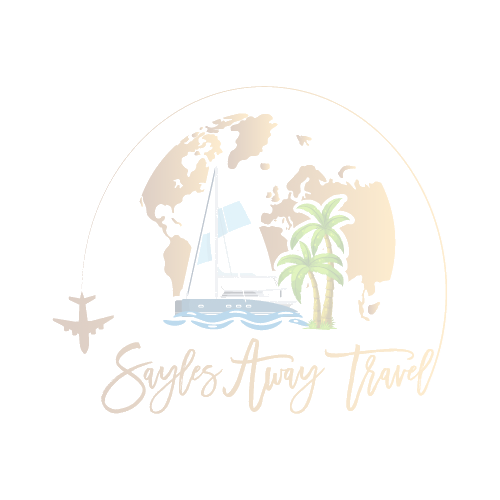
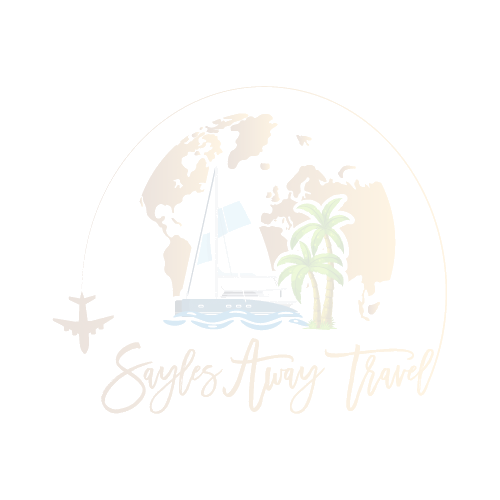
fixed submit animation + formatting changes to pdf

Changed region(s): [[0.33, 0.39, 0.69, 0.66], [0.12, 0.63, 0.18, 0.66]]

diff --git a/public/js/travel-inquiry-form.js b/public/js/travel-inquiry-form.js
@@ -8,6 +8,9 @@ $(document).ready(function(){
         return this.optional(element) || /^\bcat\b$/.test(value)
     }, "type the correct answer -_-");
 
+    $.validator.addMethod("notNone", function(value, element) {
+        return value !== "";
+    }, "Please select a valid reference.");
 
     // validate travelinquiryform
     $(function() {
@@ -73,7 +76,8 @@ $(document).ready(function(){
                 },
                 reference: {
                     required: true,
-                    minlength: 0
+                    minlength: 0,
+                    notNone: true
                 },
                 other_reference: {
                     minlength: 0
@@ -137,7 +141,7 @@ $(document).ready(function(){
                 },
                 reference: {
                     required: "",
-                    minlength: ""
+                    notNone: ""
                 },
                 other_reference: {
                     minlength: ""

diff --git a/backend/backendapi.py b/backend/backendapi.py
@@ -103,7 +103,7 @@ def generate_inquiry_pdf(data):
     pdf.cell(200, 10, f"Travel Inquiry Form - {data['first_name']} {data['last_name']}", ln=True, align='C')
     
     # Add Watermark
-    pdf.image('../public/img/watermark.png', x=20, y=60, w=170)
+    pdf.image('../public/img/watermark.png', x=5, y=35, w=200)
 
     # Add Client Information
     pdf.ln(10)  # Line break
@@ -127,7 +127,7 @@ def generate_inquiry_pdf(data):
     pdf.cell(200, 10, f"Atmosphere: {data['atmosphere']}", ln=True)
     pdf.cell(200, 10, f"Budget: {data['budget']}", ln=True)
     pdf.cell(200, 10, f"Activities: {data['activities']}", ln=True)
-    pdf.cell(200, 10, f"How did you find me: {data['reference']}", ln=True)
+    pdf.cell(200, 10, f"How did you hear about us? {data['reference']}", ln=True)
     pdf.cell(200, 10, f"If Other, reference: {data['other_reference']}", ln=True)
 
     return pdf
@@ -182,7 +182,7 @@ def generate_contact_pdf(data):
     pdf.cell(200, 10, f"Contact Form - {data['first_name']} {data['last_name']}", ln=True, align='C')
 
     # Add Watermark
-    pdf.image('../public/img/watermark.png', x=20, y=60, w=170)
+    pdf.image('../public/img/watermark.png', x=5, y=35, w=200)
 
     # Client information
     pdf.ln(10)  # Line break
